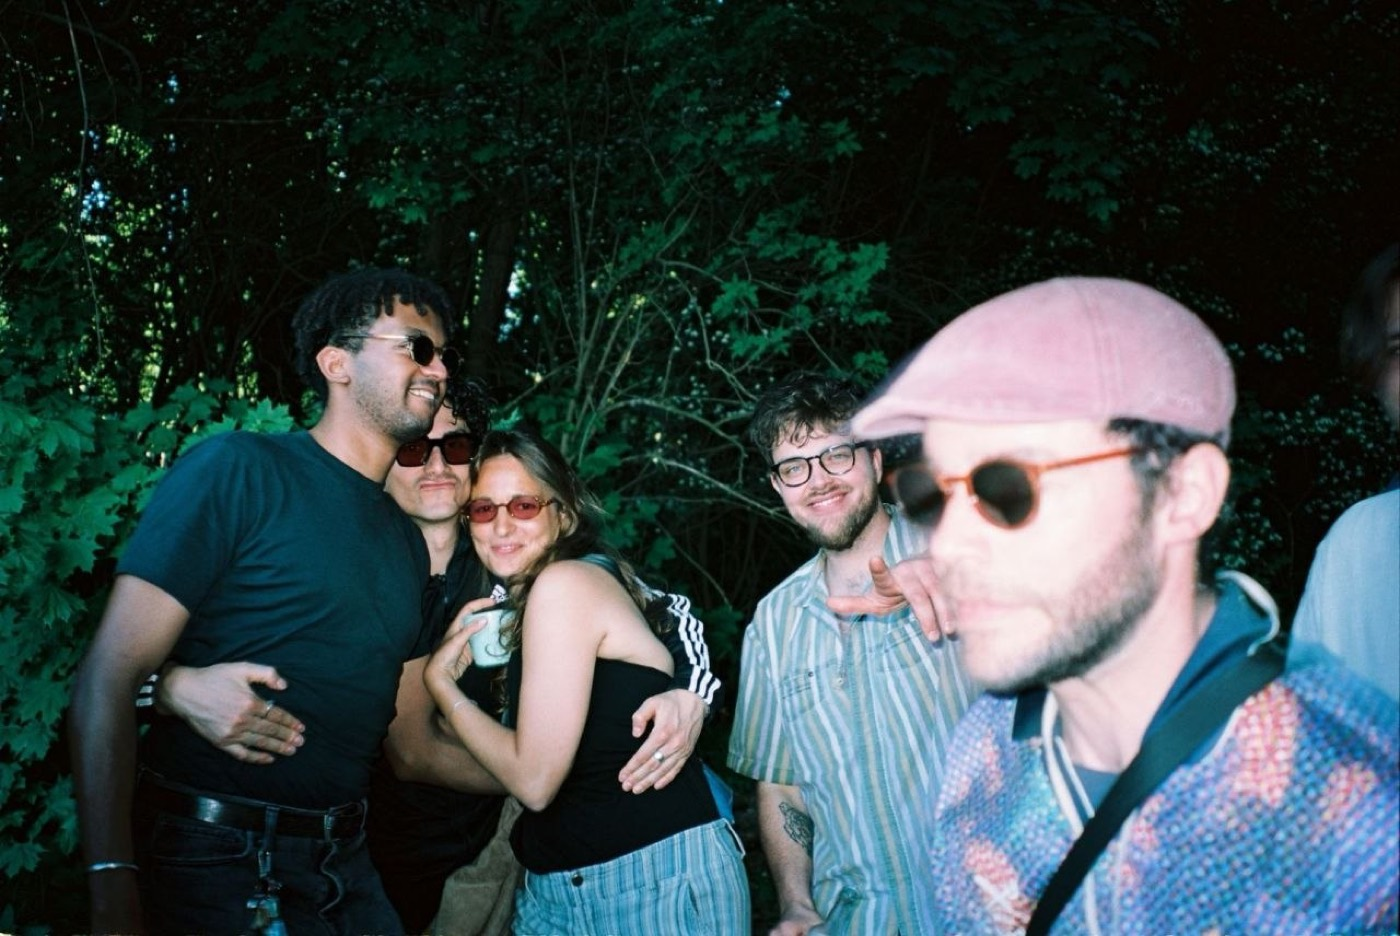
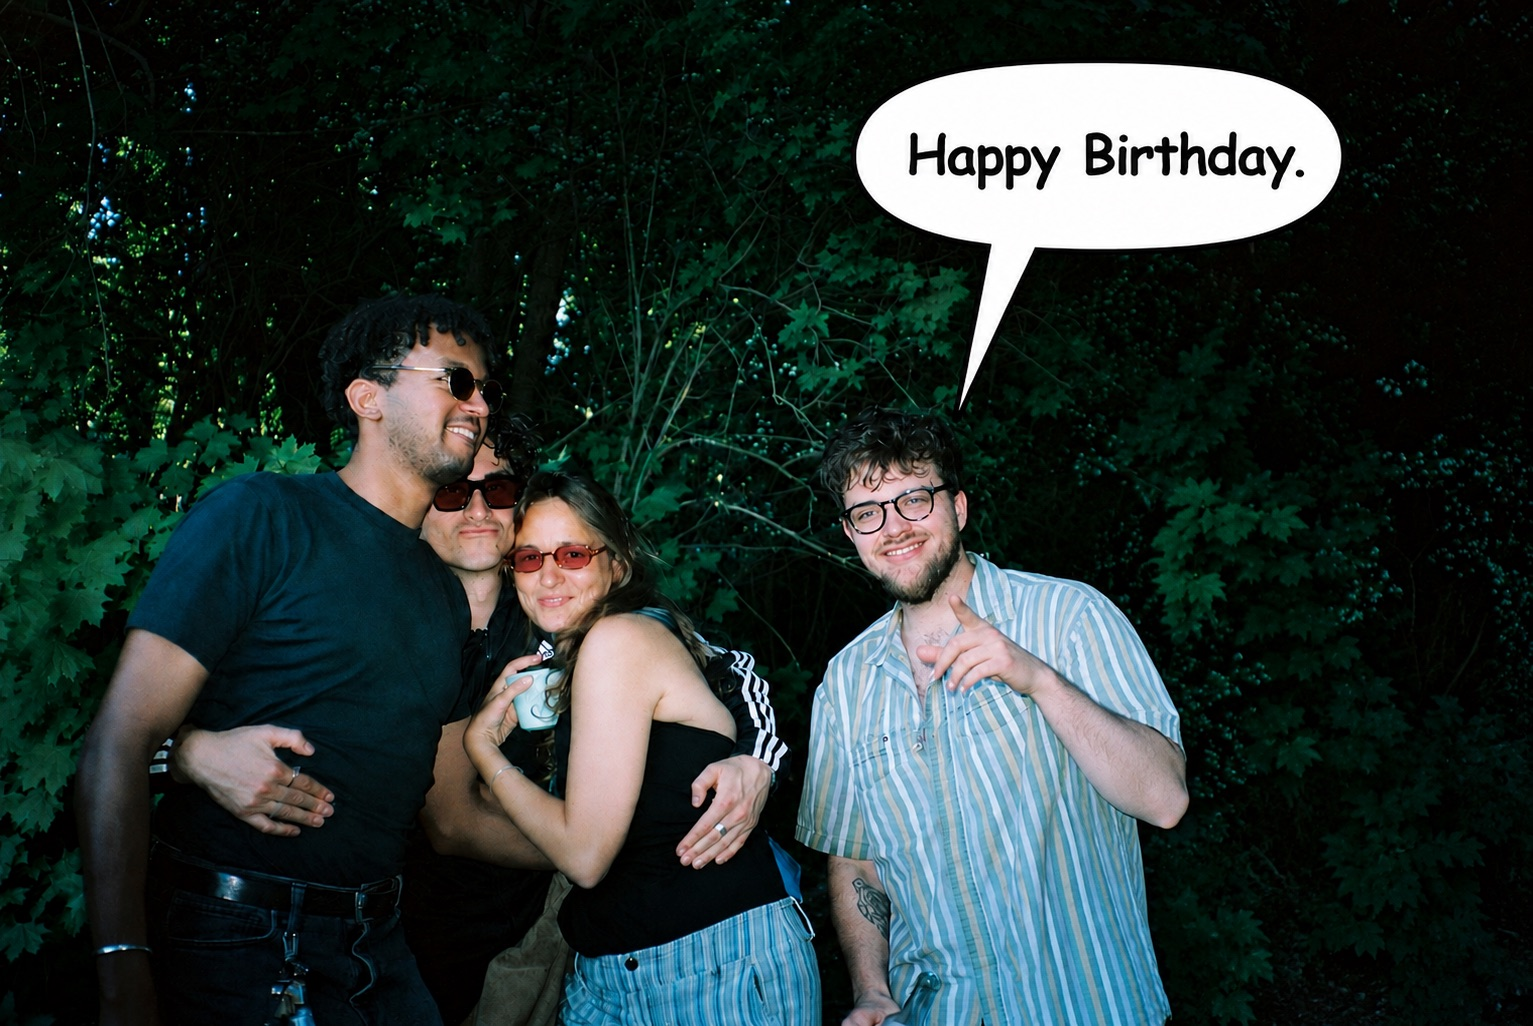
Easter egg: new final image with the birthday bubble
Claude-Session: https://claude.ai/code/session_01GMMwk1PawWtsfGKuFLs9t1

diff --git a/last_dance.html b/last_dance.html
@@ -124,7 +124,7 @@
     </svg>
   </div>
   <audio id="boss" loop preload="auto" playsinline><source src="assets/last_dance.mp3?v=2" type="audio/mpeg"></audio>
-  <div class="peek" id="peek"><img src="assets/egg-original.jpg" alt="The whole picture."></div>
+  <div class="peek" id="peek"><img src="assets/egg-original.jpg?v=2" alt="The whole picture."></div>
 <script>
   /* ---- final boss music: autoplay if allowed, else on first interaction ---- */
   const boss = document.getElementById('boss');
